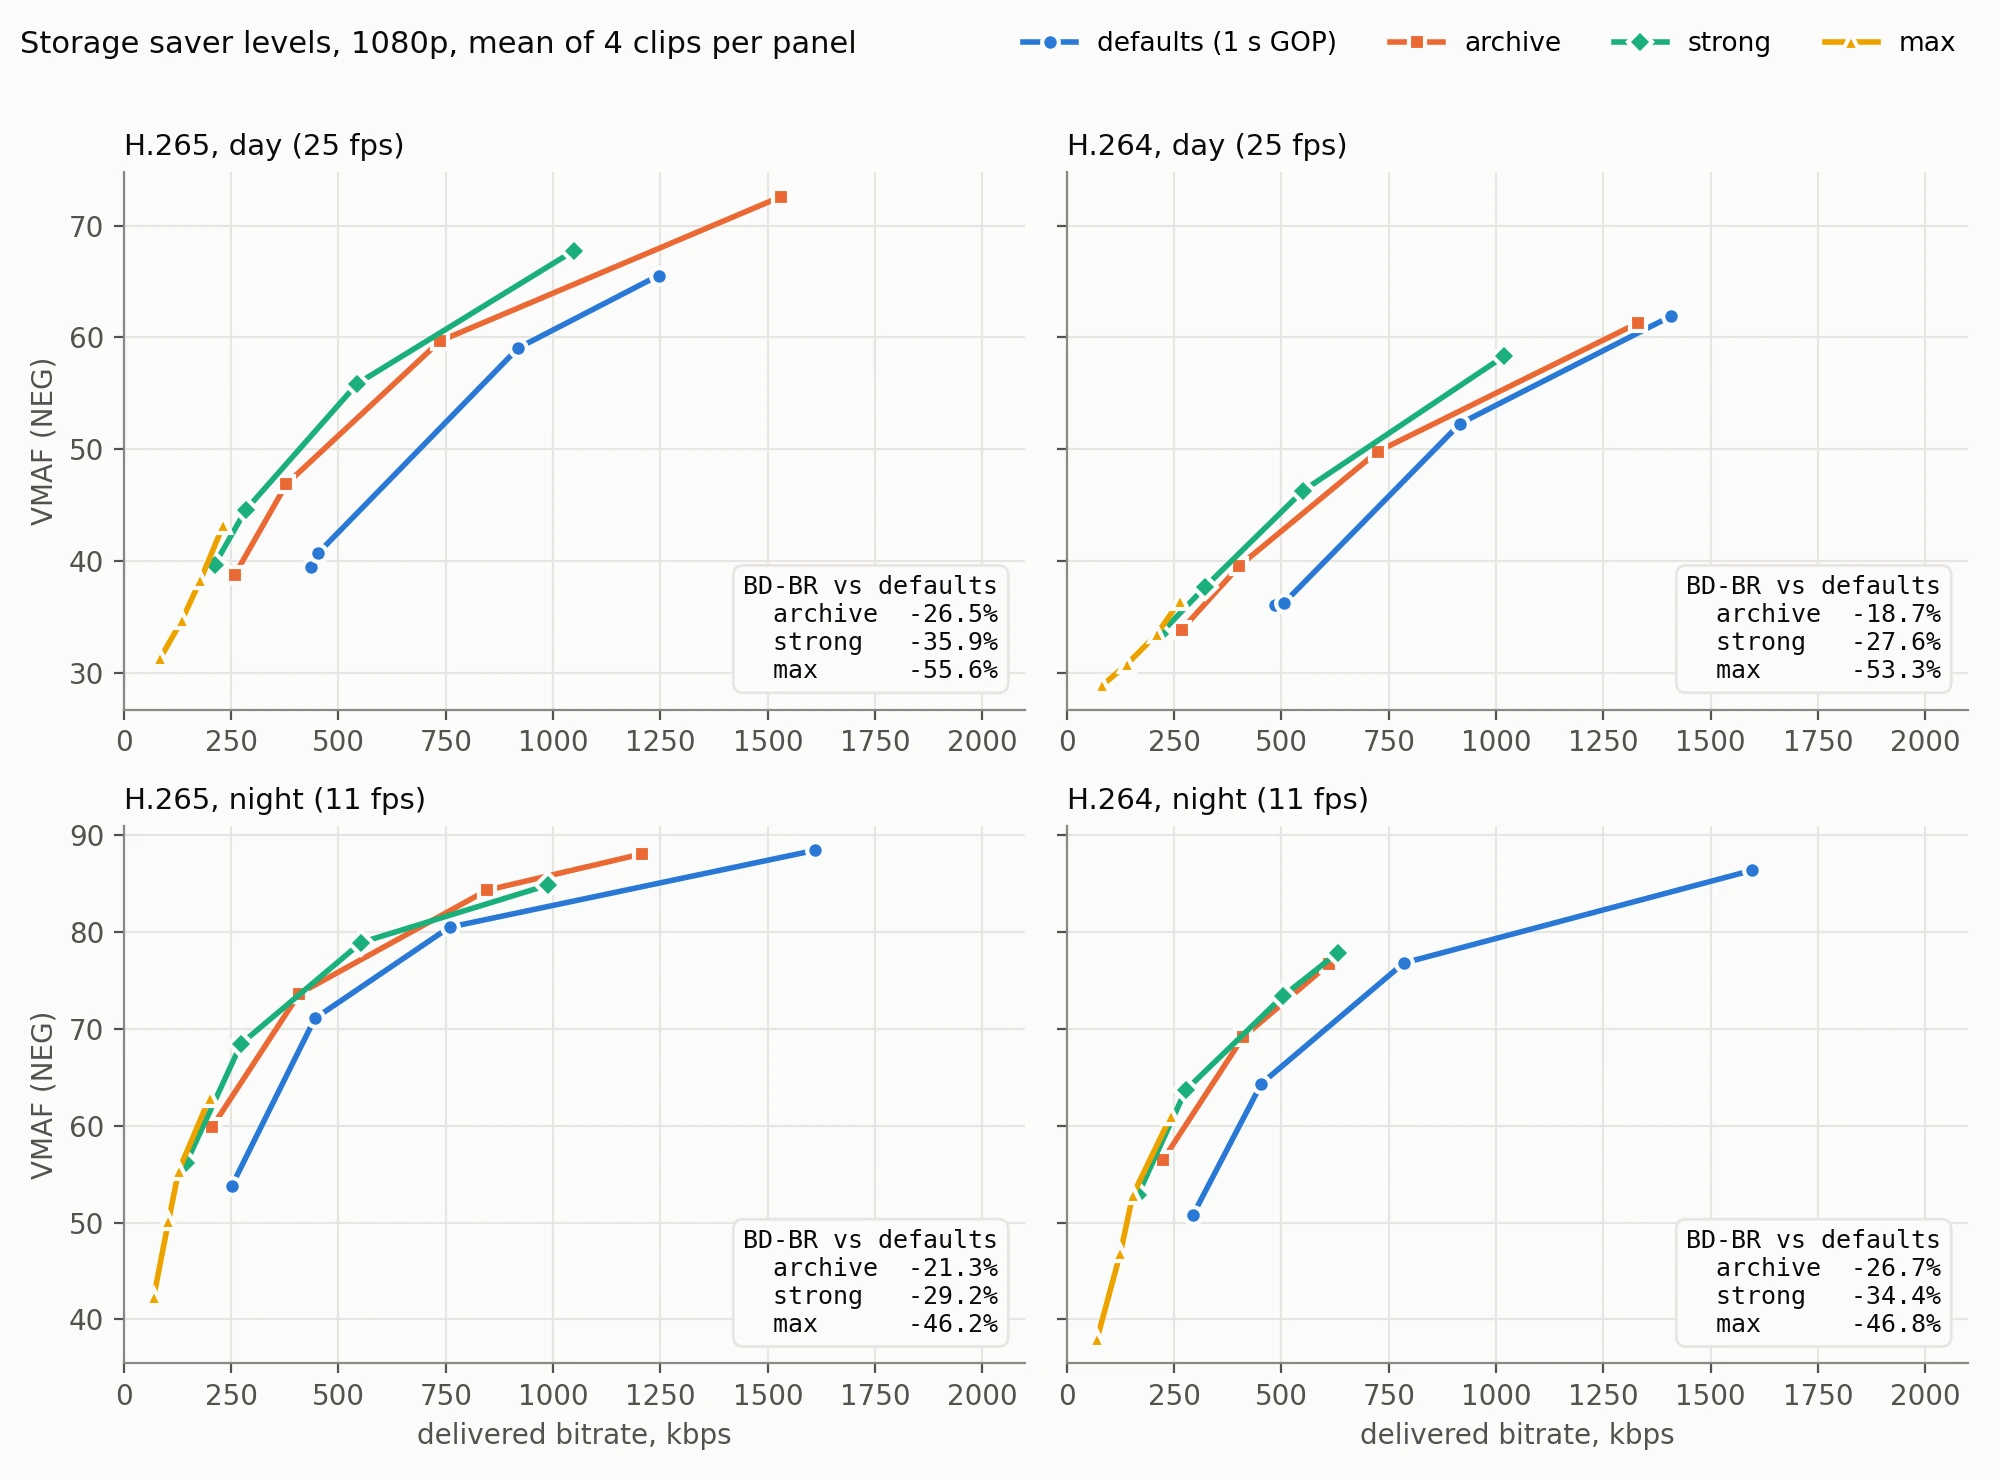
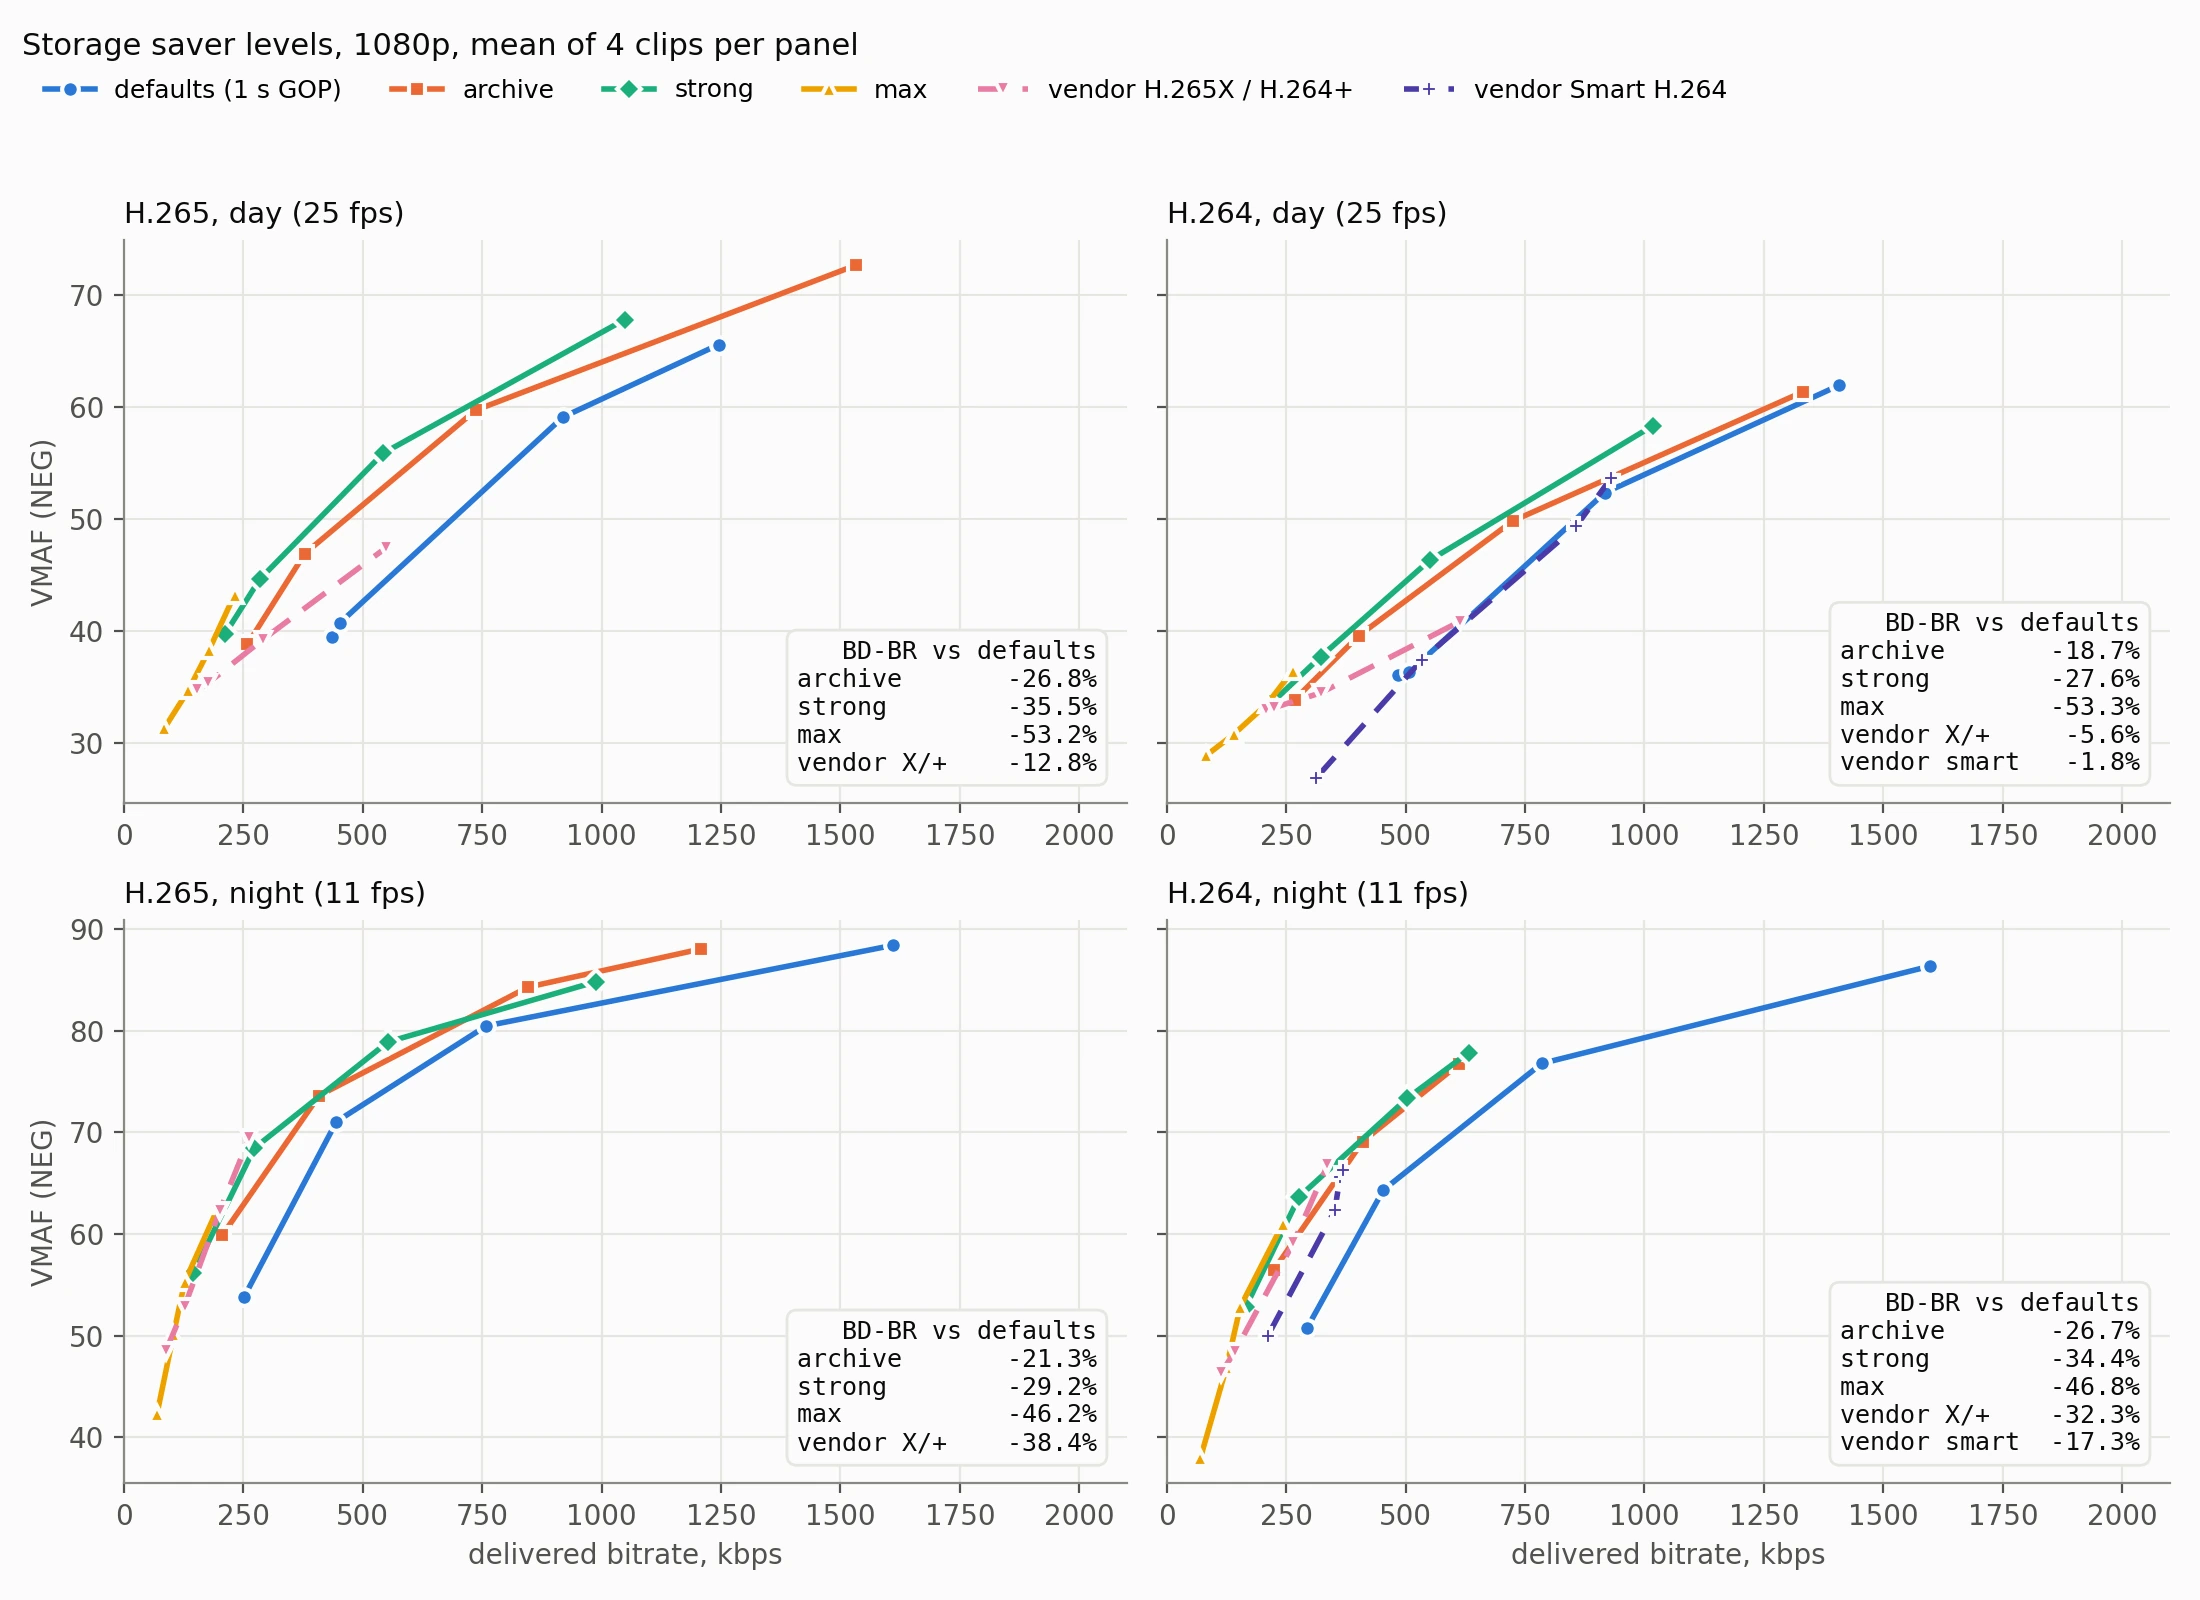
majestic: storage saver against Xiongmai's H.265X, H.264+ and Smart H.264
Xiongmai's storage modes are cloned on the same encoder from the settings its
firmware runs in each mode, and encoded on the same clips and rate ladder as
the storage saver, so the comparison is at equal quality rather than by
bitrate alone. A new figure shows the curves by day in VMAF and PSNR, and a
table gives BD-BR of archive and max against the vendor's mode for each codec,
day and night, with the share of frames each keeps. The main results table
gains the vendor's rows and is recomputed from one consistent per-clip run;
figures from fewer than four clips are marked.

diff --git a/en/majestic-encoder-tuning.md b/en/majestic-encoder-tuning.md
@@ -261,17 +261,21 @@ means and how it was measured:
 
 | level | H.265 day | H.265 night | H.264 day | H.264 night |
 |---|---|---|---|---|
-| `archive` | -26% (-27%) | -21% (-25%) | -19% (-21%) | -27% (-28%) |
-| `strong` | -36% (-31%) | about as `archive`\* | -28% (-25%) | about as `archive`\* |
-| `max` | -56% (-58%) | -46% (-40%) | -53% (-53%)\*\* | -47% (-28%) |
+| `archive` | -27% (-27%) | -21% (-25%) | -19% (-21%) | -27% (-28%) |
+| `strong` | -36% (-30%) | about as `archive`\* | -28% (-25%) | about as `archive`\* |
+| `max` | -53% (-51%†) | -46% (-40%†) | -53%† (-53%†) | -47% (-28%†) |
+| the vendor's H.265X / H.264+ | -13% (+2%) | -38% (-9%) | -6% (+5%†) | -32% (-1%†) |
+| the vendor's Smart H.264 | | | -2% (-9%) | -17% (-19%) |
 
 *Hi3516EV300 with an IMX335, 1080p. 4 day clips at 25 fps and 4 night clips
 at 11 fps under slow shutter, recorded from the camera's own sensor and
 encoded identically for every level, each played several times over so a
 10 s GOP cycles. The levels that skip frames are also given by PSNR, because
 VMAF undercharges a repeated frame. \* Not measured as such: at night
-`strong` runs as `archive` with a `maxQp` of 44 instead of 42. \*\* Two of
-the four clips.*
+`strong` runs as `archive` with a `maxQp` of 44 instead of 42. † From fewer
+than the four clips: on the others the two curves share no quality range.
+The vendor rows are its recipes, cloned on the same encoder — see
+[Against Xiongmai's modes](#against-xiongmais-h265x-h264-and-smart-h264).*
 
 ![Rate-distortion curves of the storage saver levels against the defaults: H.265 and H.264, day and night](../images/majestic-saver-rd-all.webp)
 
@@ -288,12 +292,51 @@ On a quiet scene the saving is larger. A 5 MP stream of a still room at
 | saver off | 1821 kbps | 2114 kbps |
 | `archive` | 846 kbps | 443 kbps |
 | `max` | 261 kbps at 13 fps | 224 kbps at 15 fps |
-| another vendor's camera, same chip and sensor, same scene, in its H.265X / H.264+ mode | 426 kbps at 8 fps | 428 kbps at 10.5 fps |
+| a Xiongmai camera, same chip and sensor, same scene, in its H.265X / H.264+ mode | 426 kbps at 8 fps | 428 kbps at 10.5 fps |
 
-That vendor's H.264+ and H.265X turn out to be the same recipe on this chip,
-close to `max`. Its other H.264 option, a "smart" mode built on a 1 s
-keyframe interval with a 10 s background frame, delivered 654 kbps on that
-scene and saved the least on the bench of anything measured.
+Xiongmai's H.264+ and H.265X turn out to be the same recipe on this chip.
+Its other H.264 option, a "smart" mode built on a 1 s keyframe interval with a
+10 s background frame, delivered 654 kbps on that scene.
+
+#### Against Xiongmai's H.265X, H.264+ and Smart H.264
+
+A live capture shows bitrate, not picture quality, so Xiongmai's two recipes
+were cloned on the bench: the same encoder, the same clips, the same rate
+ladder, with every setting read off its encoder while it ran in each mode on
+its own firmware.
+- **H.265X / H.264+:**
+  - a keyframe every 10 s, held as a long-term reference that later frames
+    predict from;
+  - the bitrate cut to 31% of what is configured;
+  - QP 28-44, still-scene QP 33, motion sensitivity 30, keyframe offset 2;
+  - frames skipped above about 13.5% of the reduced rate.
+- **Smart H.264:** a keyframe every 1 s plus a background frame every 10 s,
+  QP 30-51, and no frame skipping.
+
+![RD curves by day: archive and max against the vendor's H.265X, H.264+ and Smart H.264, by VMAF and by PSNR](../images/majestic-saver-rd-vendor.webp)
+
+Bitrate the storage saver needs for the same picture as the vendor's H.265X
+(on H.265) or H.264+ (on H.264), VMAF with PSNR in brackets:
+
+| level | H.265 day | H.265 night | H.264 day | H.264 night |
+|---|---|---|---|---|
+| `archive` | -22% (-34%) | +16% (-22%†) | -25% (-35%) | -1% (-32%†) |
+| `max` | -33% (-35%) | -8% (-16%) | -28% (-30%) | -16% (-17%) |
+| frames kept: the vendor's mode | 50% | 51% | 53% | 54% |
+| frames kept: `max` | 59% | 57% | 56% | 56% |
+
+- **By day, both levels beat the vendor's mode on both metrics.** `archive`
+  keeps every frame and still needs a fifth to a third fewer bits.
+- **At night, VMAF and PSNR disagree about `archive`.** The vendor's mode
+  skips half the frames and VMAF hardly notices, so by VMAF `archive` needs
+  16% more bits than it on H.265. PSNR, which does count repeated frames, has
+  `archive` 22% cheaper. `archive` keeps every frame, so it is the choice
+  when motion at night matters.
+- **`max` beats the vendor's mode everywhere**, by both metrics, while keeping
+  more of the frames.
+- **The vendor's Smart H.264 saves the least** of anything measured: 2% by
+  day, 17% at night. Its 1 s keyframe interval keeps most of the cost the long
+  GOP removes.
 
 **`archive` keeps the picture.** Everything it saves comes from the longer
 keyframe interval. `strong` and `max` sell picture and frame rate for more
@@ -378,7 +421,7 @@ percentage saving is a constant vertical gap.
 
 **BD-BR** is the mean of that gap over the quality range both curves cover —
 the shaded area divided by its width, converted back from log-rate to a
-percentage. -26.5% means `archive` needs, on average, 26.5% fewer bits than
+percentage. -26.8% means `archive` needs, on average, 26.8% fewer bits than
 the defaults for the same VMAF. A positive number would mean it needs more.
 
 How these particular numbers were produced:
@@ -398,8 +441,8 @@ How these particular numbers were produced:
 - **Averaging.** BD-BR is computed per clip and then averaged over the clips.
   The curves in the figures are the means of the four clips' points, for
   display. Where two curves share no quality range on a clip, there is nothing to
-  integrate and that clip is left out; that is the "two of the four clips" in
-  the table.
+  integrate and that clip is left out; those figures carry a † in the
+  tables.
 - **Frame skipping.** `strong` and `max` repeat frames under load. VMAF barely
   penalises a repeated frame, so those levels are also judged by PSNR. Where
   the two metrics disagree sharply, as for `strong` at night (-29% by VMAF,
